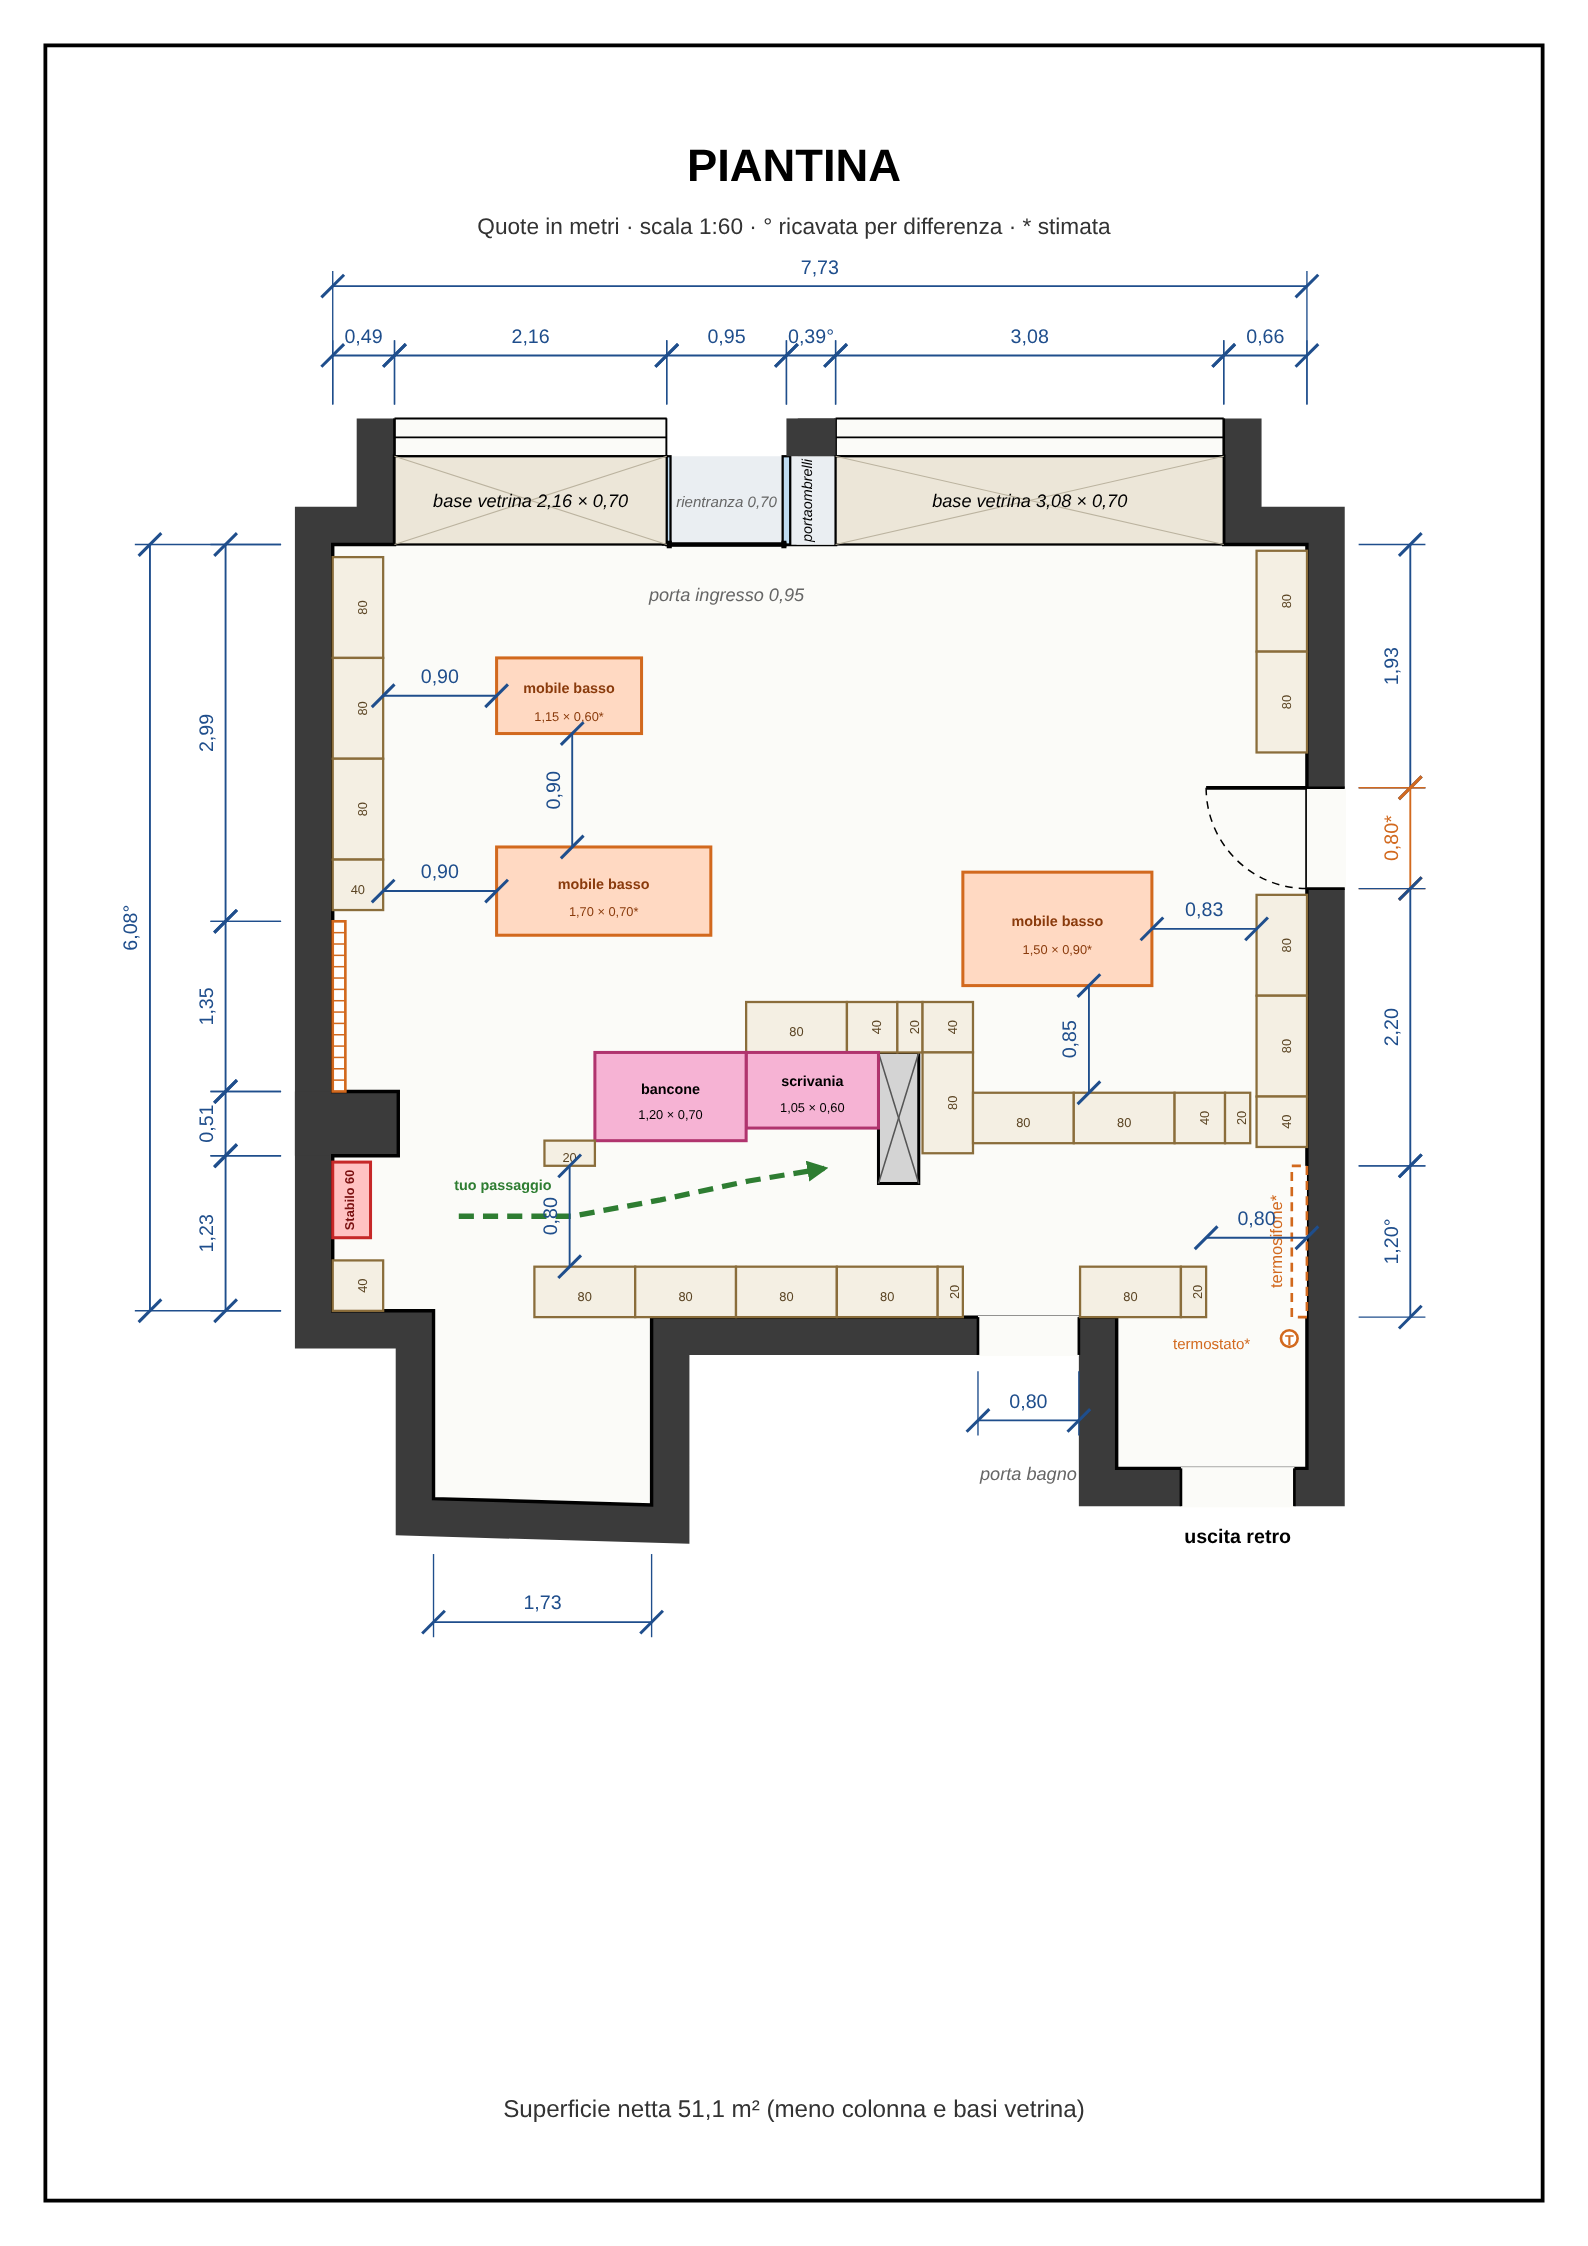
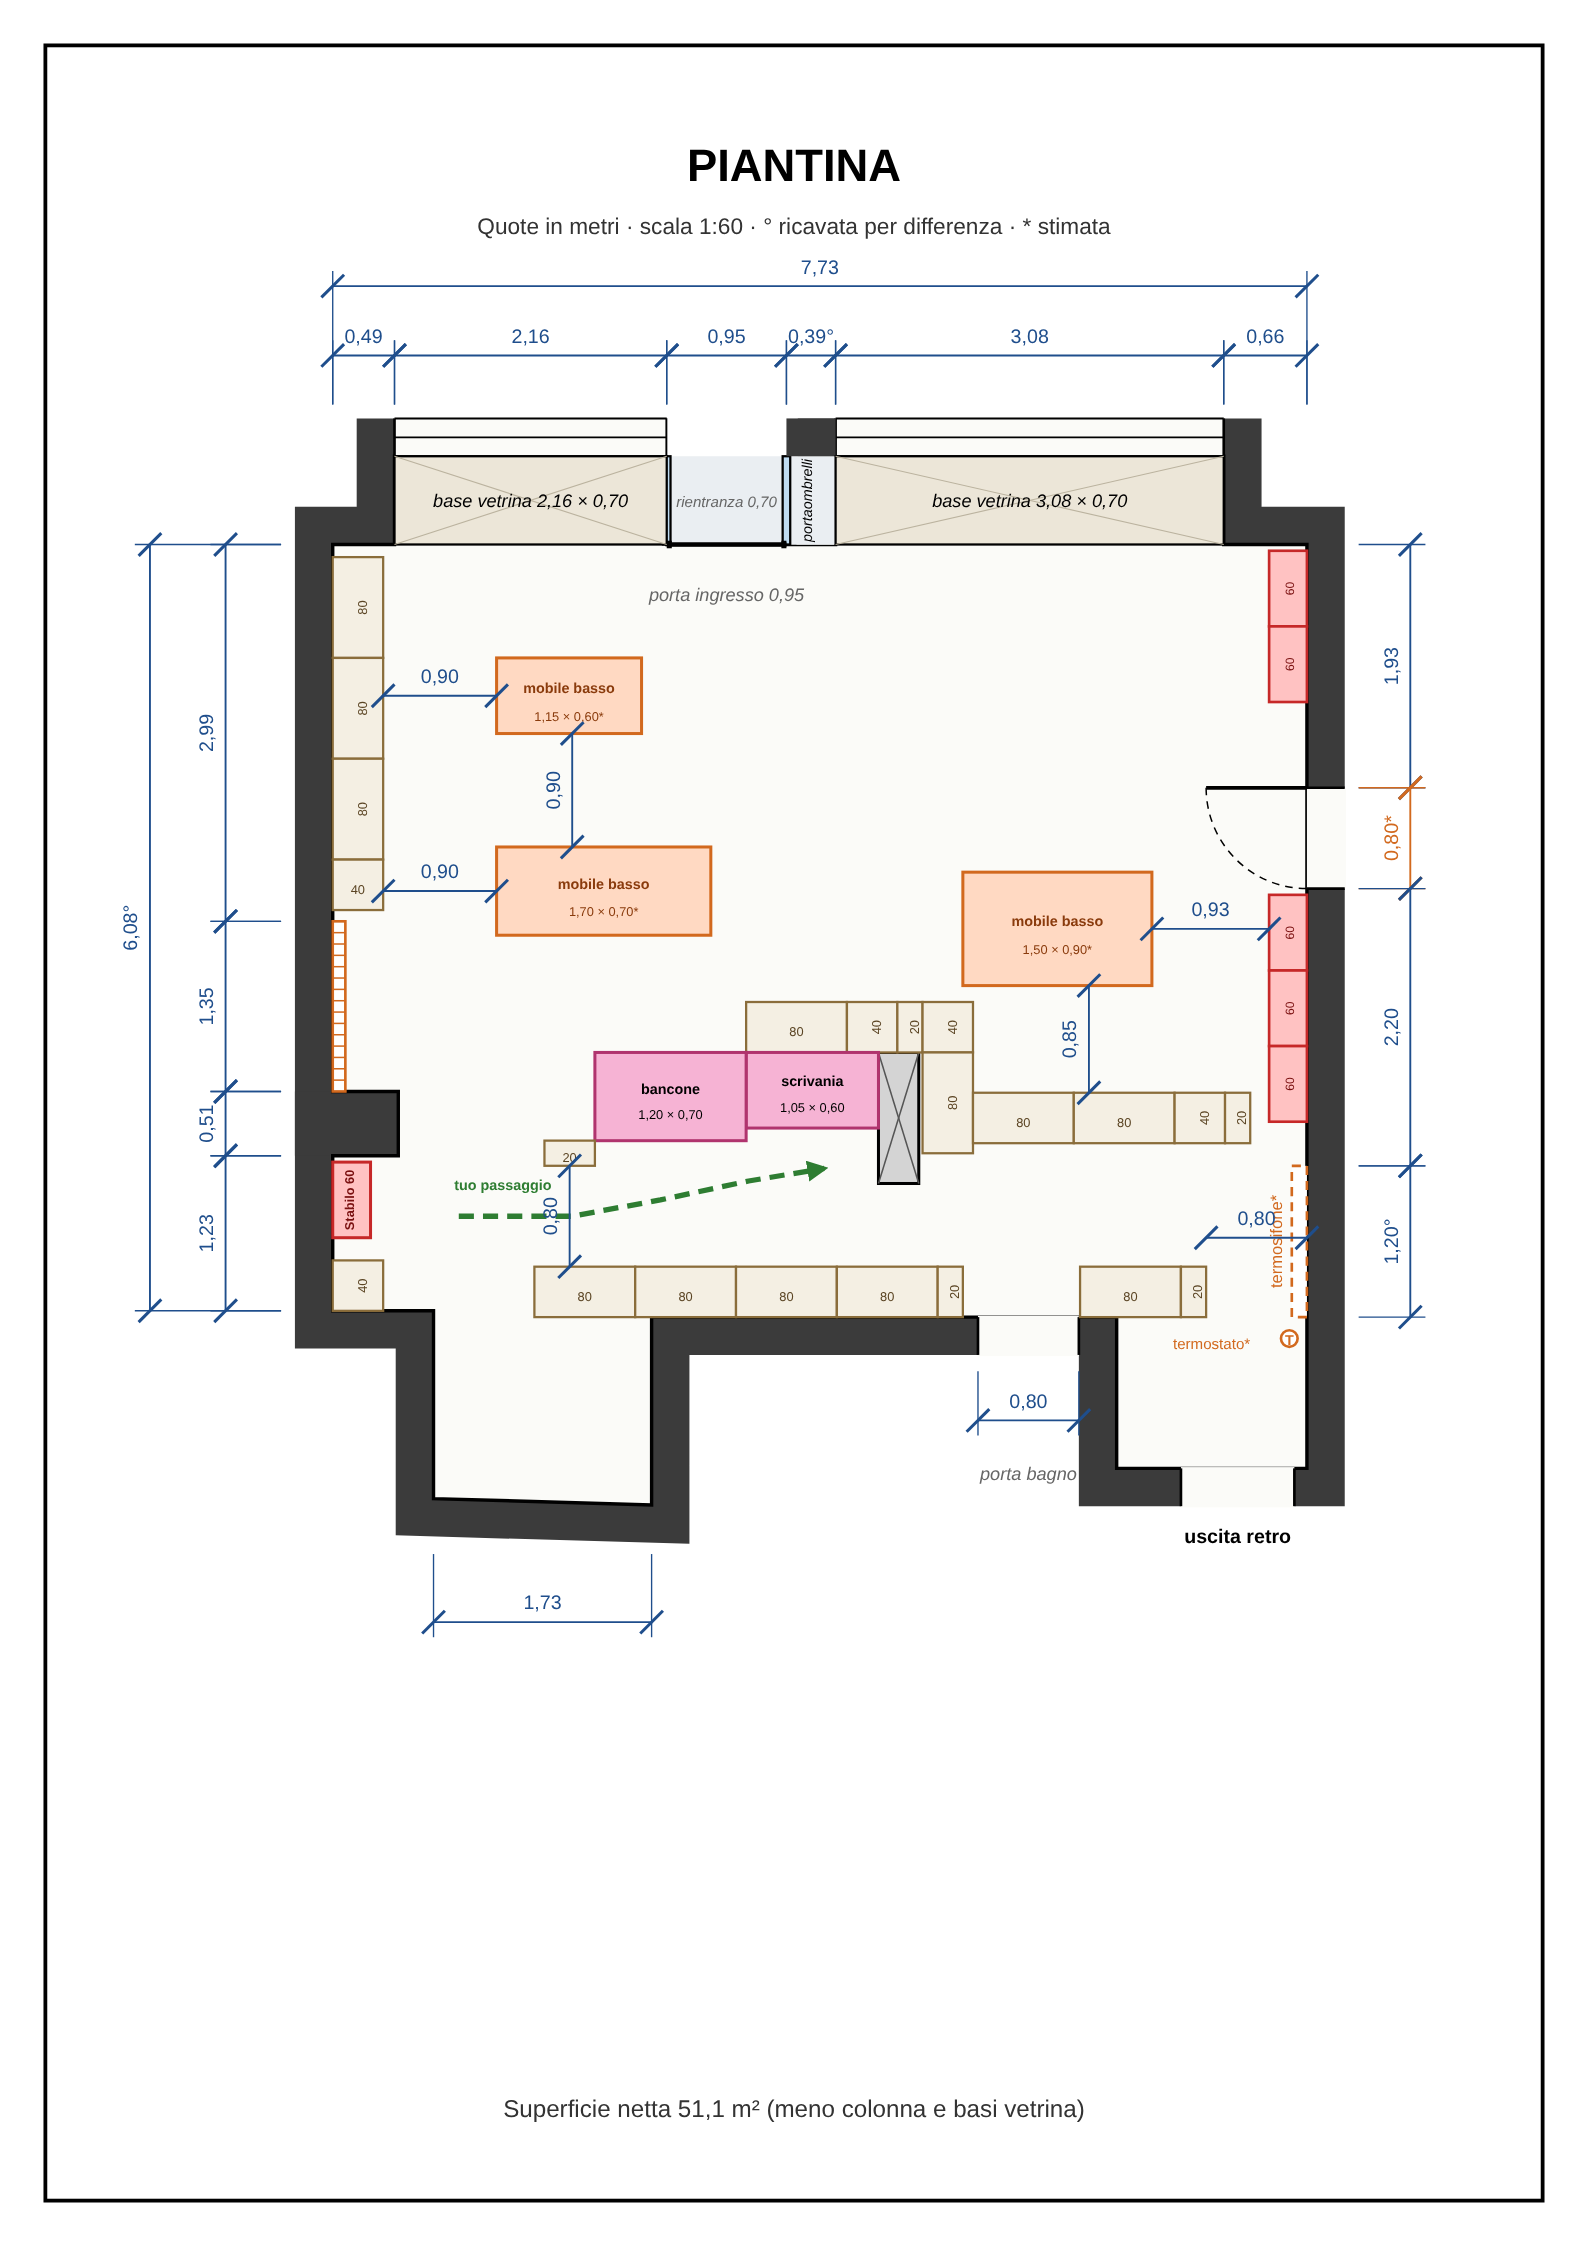
Parete destra: espositori Stabilo da 60 al posto dei Billy
Claude-Session: https://claude.ai/code/session_012mEpG2XJd9CwTCZtepJEcC

Changed region(s): [[0.7714, 0.374, 0.8331, 0.4987], [0.7714, 0.2182, 0.8331, 0.3428]]

diff --git a/piantina/genera_piantina.py b/piantina/genera_piantina.py
@@ -247,9 +247,14 @@ if FURN:
     # Billy dalla porta del bagno verso la nicchia: 80 + 20, poi resta libero il passaggio (0,80) verso l'uscita retro
     run_x(5.93, 5.73, [0.8, 0.2])
     dim_h(6.93, W, 5.50, "0,80", kind="m")   # passaggio libero verso l'uscita retro
-    # Billy parete destra: 2 x 80 prima della porta laterale, poi 80 + 80 + 40 fino al termosifone
-    run_y(W - BD, 0.05, [0.8, 0.8])
-    run_y(W - BD, 2.78, [0.8, 0.8, 0.4])
+    # parete destra: al posto dei Billy, espositori Stabilo da 60 (profondita' 0,30)
+    esp_n = 0
+    for (y0, n) in [(0.05, 2), (2.78, 3)]:
+        for k in range(n):
+            yy = y0 + 0.60 * k
+            rect(W - 0.30, yy, W, yy + 0.60, fill="#ffc2c2", stroke="#c62828", w=0.35)
+            text(W - 0.15 + 0.05, yy + 0.30, "60", 1.6, "#7a1010", rot=-90)
+            esp_n += 1
     # Billy continuo (con angoli come i Billy IKEA): parte a filo della scrivania (105), passa davanti alla colonna,
     # gira con un angolo dietro la colonna e prosegue senza interruzioni fino alla parete destra
     run_x(3.28, 3.63, [0.8, 0.4, 0.2])          # davanti alla scrivania e alla colonna: 3,28 -> 4,68
@@ -284,7 +289,7 @@ if FURN:
     dim_h(0.40, 1.30, 1.20, "0,90")                  # parete sinistra - mobile 1
     dim_v(1.50, 2.40, 1.90, "0,90")                  # mobile 1 - mobile 2 (sotto il piccolo)
     dim_h(0.40, 1.30, 2.75, "0,90")                  # libreria sinistra - mobile 2
-    dim_h(6.50, W - 0.40, 3.05, "0,83")              # mobile 3 - libreria destra
+    dim_h(6.50, W - 0.30, 3.05, "0,93")              # mobile 3 - libreria destra
     dim_v(3.50, 4.35, 6.00, "0,85")                  # mobile 3 - libreria
     rect(0.0, 4.90, 0.30, 5.50, fill="#ffc2c2", stroke="#c62828", w=0.4)
     text(0.17, 5.20, "Stabilo 60", 1.7, "#7a1010", weight="bold", rot=-90)
@@ -387,7 +392,7 @@ if MODE == 'a3':
                                f"Billy 202: {counts.get(80,0)} da 80, {counts.get(40,0)} da 40, {counts.get(20,0)} da 20 (profondità 40)",
                                "Arancione: 3 mobili bassi in orizzontale, ingresso libero",
                                "Stabilo 60 dal lato clienti; tu passi dal varco da 0,80 in basso a sinistra",
-                               "Rosso: espositore Stabilo da 60",
+                               "Rosso: espositori Stabilo da 60 (anche 5 sulla parete destra)",
                                "Quote interne nascoste per leggere meglio"]):
             ptext(px, 251 + i * 5.6, t, 3.1, "#222")
 else:
